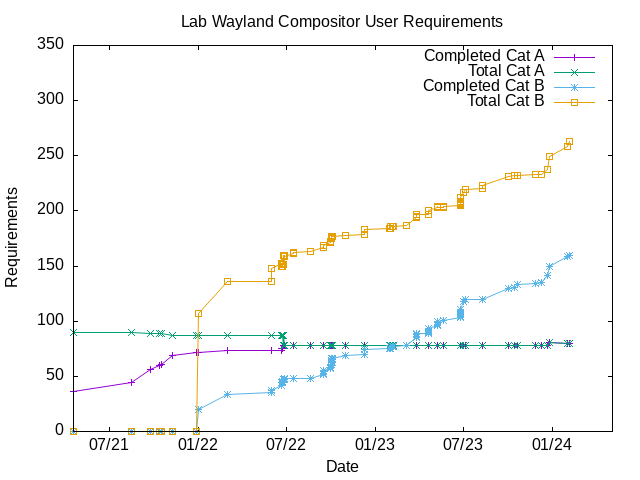
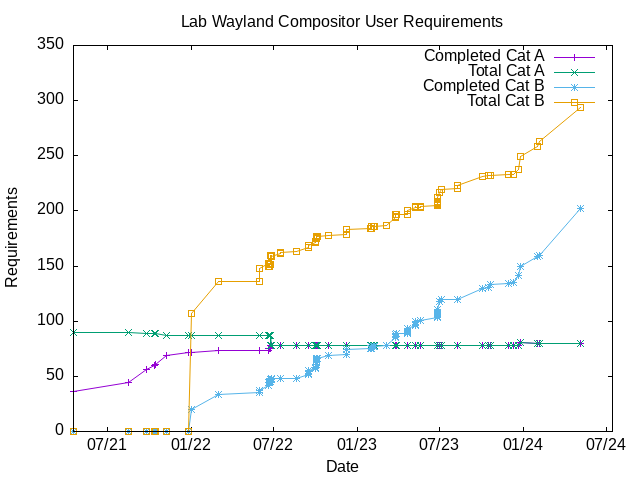
Update at 0.7.3

diff --git a/all-cat-A-and-B-items.md b/all-cat-A-and-B-items.md
@@ -17,7 +17,7 @@ This file has been auto-generated based on README.md. Do not edit it manually
 |  A  | complete | 1.1.13    | general                         | Support libinput configuration                          |
 |  A  | complete | 1.1.14    | general                         | Support drag-n-drop                                     |
 |  A  | complete | 1.1.15    | general                         | Support input method editors (IME)                      |
-|  A  | complete | 1.2.3     | wayland-protocol                | [xdg-shell]                                             |
+|  A  | complete | 1.2.3     | wayland-protocol                | [xdg-shell-v3]                                          |
 |  A  | complete | 1.3.3     | wlr-protocol                    | wlr-foreign-toplevel-management-unstable-v1             |
 |  A  | complete | 1.3.6     | wlr-protocol                    | wlr-layer-shell-unstable-v1                             |
 |  A  | complete | 1.3.7     | wlr-protocol                    | wlr-output-management-unstable-v1                       |
@@ -97,7 +97,7 @@ This file has been auto-generated based on README.md. Do not edit it manually
 |  B  |          | 1.2.12    | wayland-protocol                | pointer-gestures-unstable-v1                            |
 |  B  | complete | 1.2.13    | wayland-protocol                | primary-selection-unstable-v1                           |
 |  B  | complete | 1.2.14    | wayland-protocol                | relative-pointer-unstable-v1                            |
-|  B  |          | 1.2.15    | wayland-protocol                | tablet-unstable-v2                                      |
+|  B  | complete | 1.2.15    | wayland-protocol                | tablet-v2-manager                                       |
 |  B  | complete | 1.2.16    | wayland-protocol                | text-input-unstable-v3                                  |
 |  B  | complete | 1.2.17    | wayland-protocol                | xdg-decoration-unstable-v1                              |
 |  B  |          | 1.2.18    | wayland-protocol                | xdg-foreign-unstable-v2                                 |
@@ -112,7 +112,7 @@ This file has been auto-generated based on README.md. Do not edit it manually
 |  B  | complete | 1.2.27    | wayland-protocol                | tearing-control-manager-v1                              |
 |  B  |          | 1.2.28    | wayland-protocol                | content-type-v1                                         |
 |  B  | complete | 1.2.29    | wayland-protocol                | xwayland-shell-v1                                       |
-|  B  |          | 1.2.30    | wayland-protocol                | security-context-v1                                     |
+|  B  | complete | 1.2.30    | wayland-protocol                | security-context-v1                                     | Note: initial support only
 |  B  |          | 1.2.31    | wayland-protocol                |                                                         |
 |  B  |          | 1.2.32    | wayland-protocol                |                                                         |
 |  B  | complete | 1.3.1     | wlr-protocol                    | wlr-data-control-unstable-v1                            |
@@ -144,7 +144,7 @@ This file has been auto-generated based on README.md. Do not edit it manually
 |  B  | complete | 2.5.3     | desktop                         | `popupTime`                                             |
 |  B  | complete | 2.5.4     | desktop                         | `names`                                                 |
 |  B  | complete | 2.5.5     | desktop                         | `prefix`                                                | EXTRA
-|  B  |          | 2.6.1     | resize                          | drawContents                                            |
+|  B  | complete | 2.6.1     | resize                          | drawContents                                            |
 |  B  | complete | 2.6.2     | resize                          | popupShow                                               |
 |  B  |          | 2.6.3     | resize                          | popupPosition                                           |
 |  B  |          | 2.6.4     | resize                          | popupFixedposition                                      |
@@ -169,13 +169,14 @@ This file has been auto-generated based on README.md. Do not edit it manually
 |  B  | complete | 2.9b.3    | tablet                          | `area`                                                  |
 |  B  | complete | 2.9b.4    | tablet                          | `map`                                                   |
 |  B  | complete | 2.10.1    | margins                         | `<margin>`                                              |
-|  B  |          | 2.11.1    | menu                            | `hideDelay`                                             |
+|  B  | complete | 2.11.1    | menu                            | `ignoreButtonReleasePeriod`                             | DEVIATION: called `hideDelay` in openbox
 |  B+ |          | 2.11.3    | menu                            | `submenuShowDelay`                                      |
 |  B  |          | 2.11.6    | menu                            | `file`                                                  | TODO: is this supported already?
 |  B  | complete | 2.13.1    | core                            | `decoration`                                            | EXTRA
-|  B  | complete | 2.13.1    | core                            | `gap`                                                   | EXTRA
-|  B  | complete | 2.13.1    | core                            | `adaptiveSync`                                          | EXTRA
-|  B  | complete | 2.13.1    | core                            | `reuseOutputMode`                                       | EXTRA
+|  B  | complete | 2.13.2    | core                            | `gap`                                                   | EXTRA
+|  B  | complete | 2.13.3    | core                            | `adaptiveSync`                                          | EXTRA
+|  B  | complete | 2.13.4    | core                            | `reuseOutputMode`                                       | EXTRA
+|  B  | complete | 2.13.5    | core                            | `xwaylandPersistence`                                   | EXTRA
 |  B  | complete | 2.14.1    | window switcher                 | `show`                                                  | EXTRA
 |  B  | complete | 2.14.2    | window switcher                 | `preview`                                               | EXTRA
 |  B  | complete | 2.14.3    | window switcher                 | `outlines`                                              | EXTRA
@@ -196,7 +197,8 @@ This file has been auto-generated based on README.md. Do not edit it manually
 |  B  | complete | 3.6.12    | libinput                        | sendEventsMode                                          | EXTRA
 |  B  | complete | 3.6.13    | libinput                        | calibrationMatrix                                       | EXTRA
 |  B  | complete | 3.1.6     | keyboard binding                | `default`                                               | EXTRA
-|  B  | complete | 3.1.7     | keyboard binding                | `lyoutDependent`                                        | EXTRA
+|  B  | complete | 3.1.7     | keyboard binding                | `layoutDependent`                                       | EXTRA
+|  B  | complete | 3.1.8     | keyboard binding                | `onRelease`                                             | EXTRA
 |  B  | complete | 3.2.4     | mouse binding                   | `default`                                               | EXTRA
 |  B  | complete | 3.3.1     | mouse context                   | `Frame`                                                 |
 |  B  | complete | 3.3.2     | mouse context                   | `Client`                                                |
@@ -238,6 +240,9 @@ This file has been auto-generated based on README.md. Do not edit it manually
 |  B  | complete | 4.20      | global action                   | `ToggleKeybinds`                                        | EXTRA
 |  B  | complete | 4.21      | global action                   | `VirtualOutputAdd`                                      | EXTRA
 |  B  | complete | 4.22      | global action                   | `VirtualOutputRemove`                                   | EXTRA
+|  B  | complete | 4.23      | global action                   | `ToggleTabletMouseEmulation`                            | EXTRA
+|  B  | complete | 4.24      | global action                   | `ZoomIn`                                                | EXTRA
+|  B  | complete | 4.25      | global action                   | `ZoomOut`                                               | EXTRA
 |  B  | complete | 5.3       | window action                   | `Lower`                                                 |
 |  B  |          | 5.4       | window action                   | `RaiseLower`                                            |
 |  B  | complete | 5.5       | window action                   | `Unfocus`                                               |
@@ -249,10 +254,11 @@ This file has been auto-generated based on README.md. Do not edit it manually
 |  B  |          | 5.13.1    | window action                   | `ToggleMaximize.direction`                              |
 |  B  | complete | 5.14      | window action                   | `Maximize`                                              |
 |  B  |          | 5.14.1    | window action                   | `Maximize.direction`                                    |
-|  B  |          | 5.15      | window action                   | `Unmaximize`                                            |
+|  B  | complete | 5.15      | window action                   | `Unmaximize`                                            |
 |  B  |          | 5.15.1    | window action                   | `Unmaximize.direction`                                  |
 |  B  | complete | 5.16      | window action                   | `ToggleFullscreen`                                      |
-|  B  | complete | 5.17      | window action                   | `ToggleDecorations`                                     |
+|  B  | complete | 5.17.1    | window action                   | `ToggleDecorations`                                     |
+|  B  | complete | 5.17.2    | window action                   | `SetDecorations`                                        | EXTRA
 |  B  |          | 5.18      | window action                   | `Decorate`                                              |
 |  B  |          | 5.19      | window action                   | `Undecorate`                                            |
 |  B  | complete | 5.20      | window action                   | `SendToDesktop`                                         |

diff --git a/README.md b/README.md
@@ -157,7 +157,7 @@ Requirements section below.
 | --- | -------- | --------- | ------------------------------- | ------------------------------------------------------- | -------
 |  B  | complete | 1.2.1     | wayland-protocol                | [presentation-time]                                     |
 |  B  | complete | 1.2.2     | wayland-protocol                | [viewporter]                                            |
-|  A  | complete | 1.2.3     | wayland-protocol                | [xdg-shell]                                             |
+|  A  | complete | 1.2.3     | wayland-protocol                | [xdg-shell-v3]                                          |
 |  B  | complete | 1.2.4     | wayland-protocol                | fullscreen-shell-unstable-v1                            |
 |  B  | complete | 1.2.5     | wayland-protocol                | idle-inhibit-unstable-v1                                |
 |  B  |          | 1.2.6.1   | wayland-protocol                | input-method-unstable-v1                                |
@@ -170,7 +170,7 @@ Requirements section below.
 |  B  |          | 1.2.12    | wayland-protocol                | pointer-gestures-unstable-v1                            |
 |  B  | complete | 1.2.13    | wayland-protocol                | primary-selection-unstable-v1                           |
 |  B  | complete | 1.2.14    | wayland-protocol                | relative-pointer-unstable-v1                            |
-|  B  |          | 1.2.15    | wayland-protocol                | tablet-unstable-v2                                      |
+|  B  | complete | 1.2.15    | wayland-protocol                | tablet-v2-manager                                       |
 |  B  | complete | 1.2.16    | wayland-protocol                | text-input-unstable-v3                                  |
 |  B  | complete | 1.2.17    | wayland-protocol                | xdg-decoration-unstable-v1                              |
 |  B  |          | 1.2.18    | wayland-protocol                | xdg-foreign-unstable-v2                                 |
@@ -185,14 +185,14 @@ Requirements section below.
 |  B  | complete | 1.2.27    | wayland-protocol                | tearing-control-manager-v1                              |
 |  B  |          | 1.2.28    | wayland-protocol                | content-type-v1                                         |
 |  B  | complete | 1.2.29    | wayland-protocol                | xwayland-shell-v1                                       |
-|  B  |          | 1.2.30    | wayland-protocol                | security-context-v1                                     |
+|  B  | complete | 1.2.30    | wayland-protocol                | security-context-v1                                     | Note: initial support only
 |  B  |          | 1.2.31    | wayland-protocol                |                                                         |
 |  B  |          | 1.2.32    | wayland-protocol                |                                                         |
 
 
 [presentation-time]: https://gitlab.freedesktop.org/wayland/wayland-protocols/-/tree/main/stable/presentation-time
 [viewporter]: https://gitlab.freedesktop.org/wayland/wayland-protocols/-/tree/main/stable/viewporter
-[xdg-shell]: https://gitlab.freedesktop.org/wayland/wayland-protocols/-/tree/main/stable/xdg-shell
+[xdg-shell-v3]: https://gitlab.freedesktop.org/wayland/wayland-protocols/-/tree/main/stable/xdg-shell
 [ext-session-lock-v1]: https://gitlab.freedesktop.org/wayland/wayland-protocols/-/tree/main/staging/ext-session-lock
 
 ## 1.3 wlroots Protocols
@@ -318,7 +318,7 @@ It depends on what happens with:
 
 | Cat | Status   | Reference | Category                        | Description                                             | Comment
 | --- | -------- | --------- | ------------------------------- | ------------------------------------------------------- | -------
-|  B  |          | 2.6.1     | resize                          | drawContents                                            |
+|  B  | complete | 2.6.1     | resize                          | drawContents                                            |
 |  B  | complete | 2.6.2     | resize                          | popupShow                                               |
 |  B  |          | 2.6.3     | resize                          | popupPosition                                           |
 |  B  |          | 2.6.4     | resize                          | popupFixedposition                                      |
@@ -413,7 +413,7 @@ and covers the following settings: `decor` `shade` `position` `size` `focus`
 
 | Cat | Status   | Reference | Category                        | Description                                             | Comment
 | --- | -------- | --------- | ------------------------------- | ------------------------------------------------------- | -------
-|  B  |          | 2.11.1    | menu                            | `hideDelay`                                             |
+|  B  | complete | 2.11.1    | menu                            | `ignoreButtonReleasePeriod`                             | DEVIATION: called `hideDelay` in openbox
 |  C  |          | 2.11.2    | menu                            | `middle`                                                |
 |  B+ |          | 2.11.3    | menu                            | `submenuShowDelay`                                      |
 |  C  |          | 2.11.4    | menu                            | `applicationIcons`                                      |
@@ -433,9 +433,10 @@ The `<core>` section is additional to openbox 3.6 spec.
 | Cat | Status   | Reference | Category                        | Description                                             | Comment
 | --- | -------- | --------- | ------------------------------- | ------------------------------------------------------- | -------
 |  B  | complete | 2.13.1    | core                            | `decoration`                                            | EXTRA
-|  B  | complete | 2.13.1    | core                            | `gap`                                                   | EXTRA
-|  B  | complete | 2.13.1    | core                            | `adaptiveSync`                                          | EXTRA
-|  B  | complete | 2.13.1    | core                            | `reuseOutputMode`                                       | EXTRA
+|  B  | complete | 2.13.2    | core                            | `gap`                                                   | EXTRA
+|  B  | complete | 2.13.3    | core                            | `adaptiveSync`                                          | EXTRA
+|  B  | complete | 2.13.4    | core                            | `reuseOutputMode`                                       | EXTRA
+|  B  | complete | 2.13.5    | core                            | `xwaylandPersistence`                                   | EXTRA
 
 ## 2.14 Configuration - Window Switcher
 
@@ -479,7 +480,8 @@ arrow whilst holding alt.
 |  A  | complete | 3.1.4     | keyboard keybind                | Support modifier keys                                   |
 |  C  |          | 3.1.5     | keyboard keybind                | Support key chains                                      |
 |  B  | complete | 3.1.6     | keyboard binding                | `default`                                               | EXTRA
-|  B  | complete | 3.1.7     | keyboard binding                | `lyoutDependent`                                        | EXTRA
+|  B  | complete | 3.1.7     | keyboard binding                | `layoutDependent`                                       | EXTRA
+|  B  | complete | 3.1.8     | keyboard binding                | `onRelease`                                             | EXTRA
 
 ## 3.2 Configuration - Mouse Binding
 
@@ -579,6 +581,9 @@ arrow whilst holding alt.
 |  B  | complete | 4.20      | global action                   | `ToggleKeybinds`                                        | EXTRA
 |  B  | complete | 4.21      | global action                   | `VirtualOutputAdd`                                      | EXTRA
 |  B  | complete | 4.22      | global action                   | `VirtualOutputRemove`                                   | EXTRA
+|  B  | complete | 4.23      | global action                   | `ToggleTabletMouseEmulation`                            | EXTRA
+|  B  | complete | 4.24      | global action                   | `ZoomIn`                                                | EXTRA
+|  B  | complete | 4.25      | global action                   | `ZoomOut`                                               | EXTRA
 
 ## 5 Window Actions
 
@@ -600,10 +605,11 @@ arrow whilst holding alt.
 |  B  |          | 5.13.1    | window action                   | `ToggleMaximize.direction`                              |
 |  B  | complete | 5.14      | window action                   | `Maximize`                                              |
 |  B  |          | 5.14.1    | window action                   | `Maximize.direction`                                    |
-|  B  |          | 5.15      | window action                   | `Unmaximize`                                            |
+|  B  | complete | 5.15      | window action                   | `Unmaximize`                                            |
 |  B  |          | 5.15.1    | window action                   | `Unmaximize.direction`                                  |
 |  B  | complete | 5.16      | window action                   | `ToggleFullscreen`                                      |
-|  B  | complete | 5.17      | window action                   | `ToggleDecorations`                                     |
+|  B  | complete | 5.17.1    | window action                   | `ToggleDecorations`                                     |
+|  B  | complete | 5.17.2    | window action                   | `SetDecorations`                                        | EXTRA
 |  B  |          | 5.18      | window action                   | `Decorate`                                              |
 |  B  |          | 5.19      | window action                   | `Undecorate`                                            |
 |  B  | complete | 5.20      | window action                   | `SendToDesktop`                                         |

diff --git a/extra.md b/extra.md
@@ -20,9 +20,10 @@ This file has been auto-generated based on README.md. Do not edit it manually
 |  B  | complete | 2.8.5     | keyboard                        | `layoutScope`                                           | EXTRA
 |  B  | complete | 2.9.4     | mouse                           | `scrollFactor`                                          | EXTRA
 |  B  | complete | 2.13.1    | core                            | `decoration`                                            | EXTRA
-|  B  | complete | 2.13.1    | core                            | `gap`                                                   | EXTRA
-|  B  | complete | 2.13.1    | core                            | `adaptiveSync`                                          | EXTRA
-|  B  | complete | 2.13.1    | core                            | `reuseOutputMode`                                       | EXTRA
+|  B  | complete | 2.13.2    | core                            | `gap`                                                   | EXTRA
+|  B  | complete | 2.13.3    | core                            | `adaptiveSync`                                          | EXTRA
+|  B  | complete | 2.13.4    | core                            | `reuseOutputMode`                                       | EXTRA
+|  B  | complete | 2.13.5    | core                            | `xwaylandPersistence`                                   | EXTRA
 |  B  | complete | 2.14.1    | window switcher                 | `show`                                                  | EXTRA
 |  B  | complete | 2.14.2    | window switcher                 | `preview`                                               | EXTRA
 |  B  | complete | 2.14.3    | window switcher                 | `outlines`                                              | EXTRA
@@ -43,7 +44,8 @@ This file has been auto-generated based on README.md. Do not edit it manually
 |  B  | complete | 3.6.12    | libinput                        | sendEventsMode                                          | EXTRA
 |  B  | complete | 3.6.13    | libinput                        | calibrationMatrix                                       | EXTRA
 |  B  | complete | 3.1.6     | keyboard binding                | `default`                                               | EXTRA
-|  B  | complete | 3.1.7     | keyboard binding                | `lyoutDependent`                                        | EXTRA
+|  B  | complete | 3.1.7     | keyboard binding                | `layoutDependent`                                       | EXTRA
+|  B  | complete | 3.1.8     | keyboard binding                | `onRelease`                                             | EXTRA
 |  B  | complete | 3.2.4     | mouse binding                   | `default`                                               | EXTRA
 |  B  | complete | 3.3.21    | mouse context                   | `Title`                                                 | EXTRA
 |  B  | complete | 4.2.3     | global action                   | `ShowMenu.atCursor`                                     | EXTRA
@@ -54,6 +56,10 @@ This file has been auto-generated based on README.md. Do not edit it manually
 |  B  | complete | 4.20      | global action                   | `ToggleKeybinds`                                        | EXTRA
 |  B  | complete | 4.21      | global action                   | `VirtualOutputAdd`                                      | EXTRA
 |  B  | complete | 4.22      | global action                   | `VirtualOutputRemove`                                   | EXTRA
+|  B  | complete | 4.23      | global action                   | `ToggleTabletMouseEmulation`                            | EXTRA
+|  B  | complete | 4.24      | global action                   | `ZoomIn`                                                | EXTRA
+|  B  | complete | 4.25      | global action                   | `ZoomOut`                                               | EXTRA
+|  B  | complete | 5.17.2    | window action                   | `SetDecorations`                                        | EXTRA
 |  B  | complete | 5.20.1    | window action                   | `SendToDesktop.to`                                      | EXTRA: support value 'current'
 |  B  | complete | 5.26.1    | window action                   | `MoveToEdge.snapWindows`                                | EXTRA
 |  B  | complete | 5.31.2    | window action                   | `ForEach.none`                                          | EXTRA

diff --git a/incomplete-cat-B-items.md b/incomplete-cat-B-items.md
@@ -10,19 +10,15 @@ This file has been auto-generated based on README.md. Do not edit it manually
 |  B  |          | 1.2.9     | wayland-protocol                | linux-dmabuf-unstable-v1                                |
 |  B  |          | 1.2.10    | wayland-protocol                | linux-explicit-synchronization-unstable-v1              |
 |  B  |          | 1.2.12    | wayland-protocol                | pointer-gestures-unstable-v1                            |
-|  B  |          | 1.2.15    | wayland-protocol                | tablet-unstable-v2                                      |
 |  B  |          | 1.2.18    | wayland-protocol                | xdg-foreign-unstable-v2                                 |
 |  B  |          | 1.2.20    | wayland-protocol                | xwayland-keyboard-grab-unstable-v1                      |
 |  B  |          | 1.2.28    | wayland-protocol                | content-type-v1                                         |
-|  B  |          | 1.2.30    | wayland-protocol                | security-context-v1                                     |
 |  B  |          | 1.2.31    | wayland-protocol                |                                                         |
 |  B  |          | 1.2.32    | wayland-protocol                |                                                         |
 |  B  |          | 2.1.1     | resistance                      | `strength`                                              | If we implement, consider a better name
 |  B  |          | 2.4.8     | theme                           | `<font place="MenuHeader">`                             |
-|  B  |          | 2.6.1     | resize                          | drawContents                                            |
 |  B  |          | 2.6.3     | resize                          | popupPosition                                           |
 |  B  |          | 2.6.4     | resize                          | popupFixedposition                                      |
-|  B  |          | 2.11.1    | menu                            | `hideDelay`                                             |
 |  B  |          | 2.11.6    | menu                            | `file`                                                  | TODO: is this supported already?
 |  B  |          | 3.3.14    | mouse context                   | `Icon`                                                  |
 |  B  |          | 3.4.1     | mouse button                    | `Middle`                                                |
@@ -36,7 +32,6 @@ This file has been auto-generated based on README.md. Do not edit it manually
 |  B  |          | 5.6       | window action                   | `FocusToBottom`                                         |
 |  B  |          | 5.13.1    | window action                   | `ToggleMaximize.direction`                              |
 |  B  |          | 5.14.1    | window action                   | `Maximize.direction`                                    |
-|  B  |          | 5.15      | window action                   | `Unmaximize`                                            |
 |  B  |          | 5.15.1    | window action                   | `Unmaximize.direction`                                  |
 |  B  |          | 5.18      | window action                   | `Decorate`                                              |
 |  B  |          | 5.19      | window action                   | `Undecorate`                                            |

diff --git a/deviations.md b/deviations.md
@@ -6,6 +6,7 @@ This file has been auto-generated based on README.md. Do not edit it manually
 |  B  | complete | 2.2.5     | focus                           | `followMouseRequiresMovement`                           | DEVIATION It is called `underMouse` in Openbox
 |  B  | complete | 2.3.1     | placement                       | `policy`                                                | DEVIATION: automatic is similar to smart
 |  B  | complete | 2.4.4     | theme                           | `keepBorder`                                            | DEVIATION: gives ToggleDeocration 3 states
+|  B  | complete | 2.11.1    | menu                            | `ignoreButtonReleasePeriod`                             | DEVIATION: called `hideDelay` in openbox
 |  B  | complete | 3.3.4     | mouse context                   | `Root`                                                  | DEVIATION [^2]
 |  B  | complete | 3.5.6     | mouse event                     | `Scroll`                                                | DEVIATION: Scroll is used instead of Click for mouse-buttons Up/Down
 |  B  | complete | 5.23.1    | window action                   | `MoveTo`                                                | DEVIATION: `MoveResizeTo` in Openbox

diff --git a/stats.md b/stats.md
@@ -3,6 +3,6 @@ This file has been auto-generated based on README.md. Do not edit it manually
 # Requirements Breakdown
 
 - Cat A:  80 / 80 complete
-- Cat B:  202 / 294 complete
+- Cat B:  213 / 300 complete
 - Cat C:  0 / 50 complete
-- TOTAL:  282 / 424 complete
+- TOTAL:  293 / 430 complete
